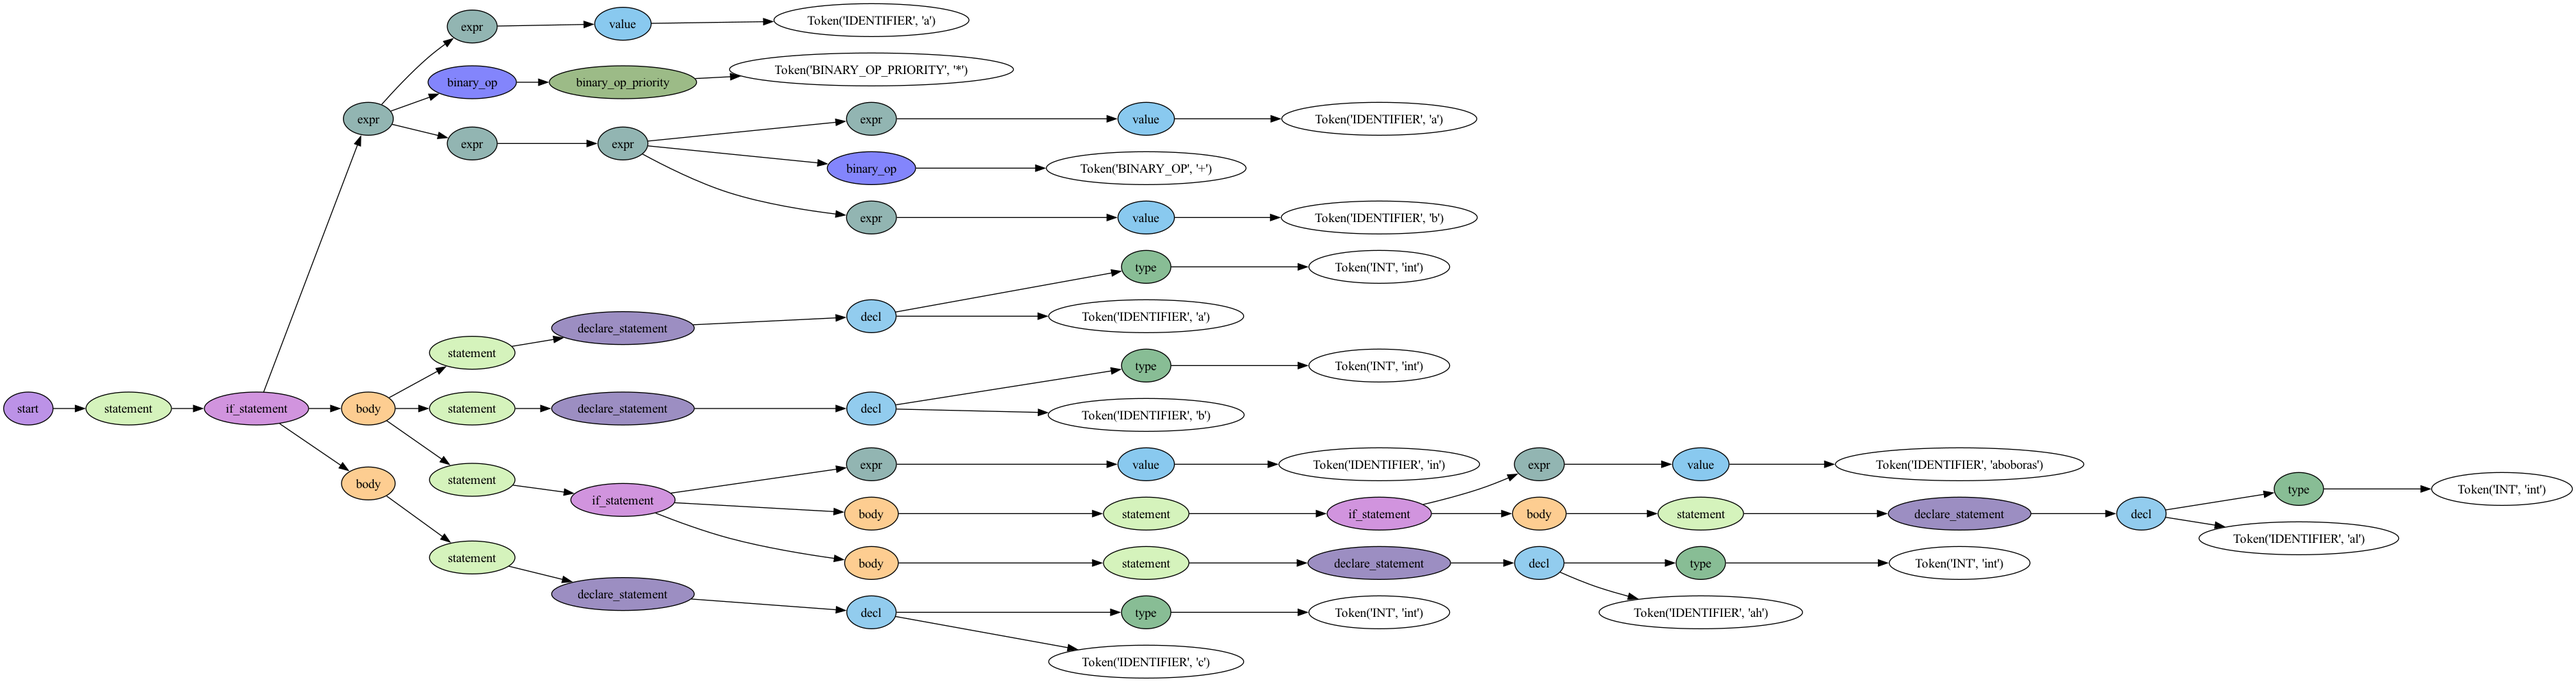
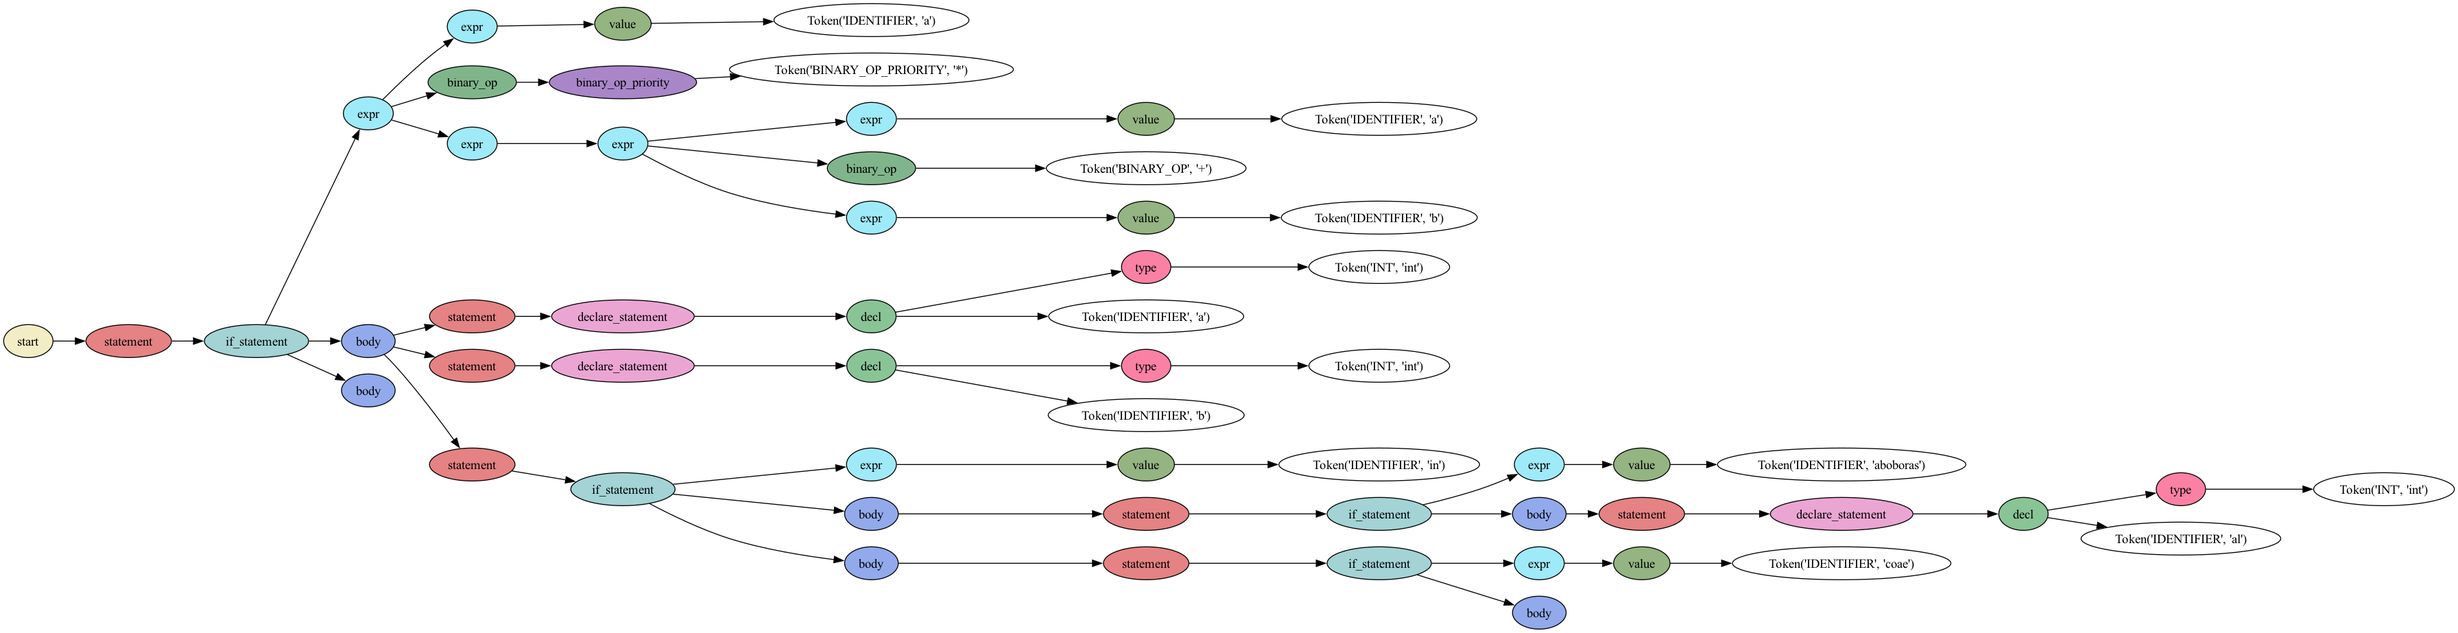
lol

Changed region(s): [[0.0, 0.0, 1.0, 1.0], [0.2188, 0.8494, 0.2812, 0.9101]]

diff --git a/output.html b/output.html
@@ -1,1 +1,1 @@
-<html><body><h1>Section 1</h1><h2>listaRedeclaracoes</h2><table></table><h2>listaNaoRedeclaracoes</h2><table><tr><td>a-Global</td></tr><tr><td>b-Global</td></tr><tr><td>in-Global</td></tr><tr><td>aboboras-Global</td></tr></table><h2>listaNaoInicializadas</h2><table><tr><td>a-Global</td></tr><tr><td>b-Global</td></tr><tr><td>in-Global</td></tr><tr><td>aboboras-Global</td></tr></table><h2>listaNaoMencionadas</h2><table><tr><td>a-Global</td></tr><tr><td>b-Global</td></tr><tr><td>al-Global</td></tr><tr><td>ah-Global</td></tr><tr><td>c-Global</td></tr></table><h1>Section 2</h1><table><tr><th>int</th><td>a-Global</td><td>b-Global</td><td>al-Global</td><td>ah-Global</td><td>c-Global</td></tr><tr><th>None</th><td>in-Global</td><td>aboboras-Global</td></tr></table><h1>Section 3</h1><table><tr><td>atribuicoes</td><td>0</td></tr><tr><td>leitura</td><td>5</td></tr><tr><td>condicionais</td><td>3</td></tr><tr><td>ciclicas</td><td>0</td></tr></table><h1>Section 4</h1><p>2</p><h1>Section 5</h1><p>1</p></body></html>
+<html><body><h1>Section 1</h1><h2>listaRedeclaracoes</h2><table></table><h2>listaNaoRedeclaracoes</h2><table><tr><td>a-Global</td></tr><tr><td>b-Global</td></tr><tr><td>in-Global</td></tr><tr><td>aboboras-Global</td></tr><tr><td>coae-Global</td></tr></table><h2>listaNaoInicializadas</h2><table><tr><td>a-Global</td></tr><tr><td>b-Global</td></tr><tr><td>in-Global</td></tr><tr><td>aboboras-Global</td></tr><tr><td>coae-Global</td></tr></table><h2>listaNaoMencionadas</h2><table><tr><td>a-Global</td></tr><tr><td>b-Global</td></tr><tr><td>al-Global</td></tr></table><h1>Section 2</h1><table><tr><th>int</th><td>a-Global</td><td>b-Global</td><td>al-Global</td></tr><tr><th>None</th><td>in-Global</td><td>aboboras-Global</td><td>coae-Global</td></tr></table><h1>Section 3</h1><table><tr><td>atribuicoes</td><td>0</td></tr><tr><td>leitura</td><td>6</td></tr><tr><td>condicionais</td><td>4</td></tr><tr><td>ciclicas</td><td>0</td></tr></table><h1>Section 4</h1><p>3</p><h1>Section 5</h1><p>1</p></body></html>

diff --git a/tp3.py b/tp3.py
@@ -17,11 +17,6 @@ import re
 
 import re
 
-def remove_whitespace(array):
-    for i in range(len(array)):
-        array[i] = array[i].strip()
-
-
 def inicio_fim(string):
     quote_indices = [i for i, char in enumerate(string) if char == '"']
     
@@ -120,9 +115,11 @@ class MyInterpreter(Interpreter):
         stringGrafoFinal = ""
         if arrayDasStrings:
             print("Array das strings", arrayDasStrings)
-            if re.search(r'"if .*" -> ""', arrayDasStrings[-1]):
-                arrayDasStrings[-1] = re.sub(r'\n\s*"if .*" -> ""\n\s*', '\n', arrayDasStrings[-1])
-            print("Array das strings", arrayDasStrings)
+            for i in range(len(arrayDasStrings)):
+                if re.search(r'"if .*" -> ""', arrayDasStrings[i]):
+                    arrayDasStrings[i] = re.sub(r'"if .*" -> ""', '\n', arrayDasStrings[i])
+            print("Array das stringsMOD", arrayDasStrings)
+
             
             stringGrafoFinal = "\n".join(arrayDasStrings)
 
@@ -209,6 +206,8 @@ class MyInterpreter(Interpreter):
         return self.visit_children(tree)
 
     def if_statement(self, tree): # exp body body?
+        numeroFilhos = len(tree.children)
+        
         stringElse = ""
         if self.estrutura:
             self.estruturasControlo += 1
@@ -229,28 +228,47 @@ class MyInterpreter(Interpreter):
         self.estrutura.pop()
 
         print("EXP", exp)   
-        conteudo =  exp[0] if exp else ""
-        stringG = f"""
-        "if {extract_values_to_string(n)}" [shape=diamond];
-        "if {extract_values_to_string(n)}" -> "{extract_values_to_string(conteudo)}"
-        """
+        conteudo = ""
+        if exp:
+            match = re.search(r'"([^"]*)"', exp[0][0])
+            if match:
+                conteudo = match.group(1)
+            else:
+                conteudo = exp[0][0]
+        print("CONTEUDO", conteudo)
+        stringG = f'"if {extract_values_to_string(n)}" [shape=diamond];\n"if {extract_values_to_string(n)}" -> "{extract_values_to_string(conteudo)}"'
 
+
+
+         #INCOMPLETO
         if len(exp) > 1:
             pattern = r'"([^"]*)"'
             for element in exp[1:]:
                 match = re.search(pattern, extract_values_to_string(element))
                 if match:
                     print("Match", match.group(1))
-                    stringG += f"""
-                "{extract_values_to_string(exp[0])}" -> "{match.group(1)}"
-                    """
+                    stringG += f'"{extract_values_to_string(exp[0])}" -> "{match.group(1)}"\n'
 
-        numeroFilhos = len(tree.children)
+        
         if numeroFilhos == 3:
             expElse = self.visit(tree.children[2]) or ""
-            stringElse = f"""
-            "if {extract_values_to_string(n)}" -> "{extract_values_to_string(expElse)}"
-            """
+            conteudoElse = ""
+            if expElse:
+                match = re.search(r'"([^"]*)"', expElse[0][0])
+                if match:
+                    conteudoElse = match.group(1)
+                else:
+                    conteudoElse = expElse[0][0]
+            print("CONTEUDO-else", conteudoElse)
+            stringElse = f'"if {extract_values_to_string(n)}" -> "{extract_values_to_string(conteudoElse)}"\n'
+
+            if len(exp) > 1:
+                pattern = r'"([^"]*)"'
+                for element in expElse[1:]:
+                    match = re.search(pattern, extract_values_to_string(element))
+                    if match:
+                        print("Match", match.group(1))
+                        stringElse += f'"{extract_values_to_string(expElse[0])}" -> "{match.group(1)}"\n'
 
         stringG += stringElse
         self.arrayString.append(stringG)
@@ -300,9 +318,9 @@ class MyInterpreter(Interpreter):
         self.declAuxValue = True
         exp = self.visit_children(tree) or ""
         self.declAuxValue = False
-        string = f"""
-        "{tree.children[0]}" -> "{exp}"
-        """
+
+        string = f'"{tree.children[0]}" -> "{exp}"'
+
         self.arrayString.append(string)
         return string
 
@@ -310,9 +328,7 @@ class MyInterpreter(Interpreter):
         self.boolIF = False
 
         exp = self.visit_children(tree) or ""
-        string = f"""
-        "print" -> "{exp}"
-        """
+        string = f'"print" -> "{exp}"'
         self.arrayString.append(string)
         return string
 
@@ -327,9 +343,7 @@ class MyInterpreter(Interpreter):
         self.boolIF = False
 
         exp = self.visit_children(tree) or ""
-        string = f"""
-        "call" -> "{exp}"
-        """
+        string = f'"call" -> "{exp}"'
         self.arrayString.append(string)
         return string
 
@@ -338,9 +352,7 @@ class MyInterpreter(Interpreter):
         self.boolIF = False
 
         exp = self.visit_children(tree) or ""
-        string = f"""
-        "return" -> "{exp}"
-        """
+        string = f'"return" -> "{exp}"'
         self.arrayString.append(string)
         return string
 
@@ -575,10 +587,13 @@ if ( a * (a + b) ) {
             int al;
         }
     } else {
-        int ah;
+        if(coae){
+        
+        }
+
     }
 }else {
-int c;
+
 }
 
 '''
